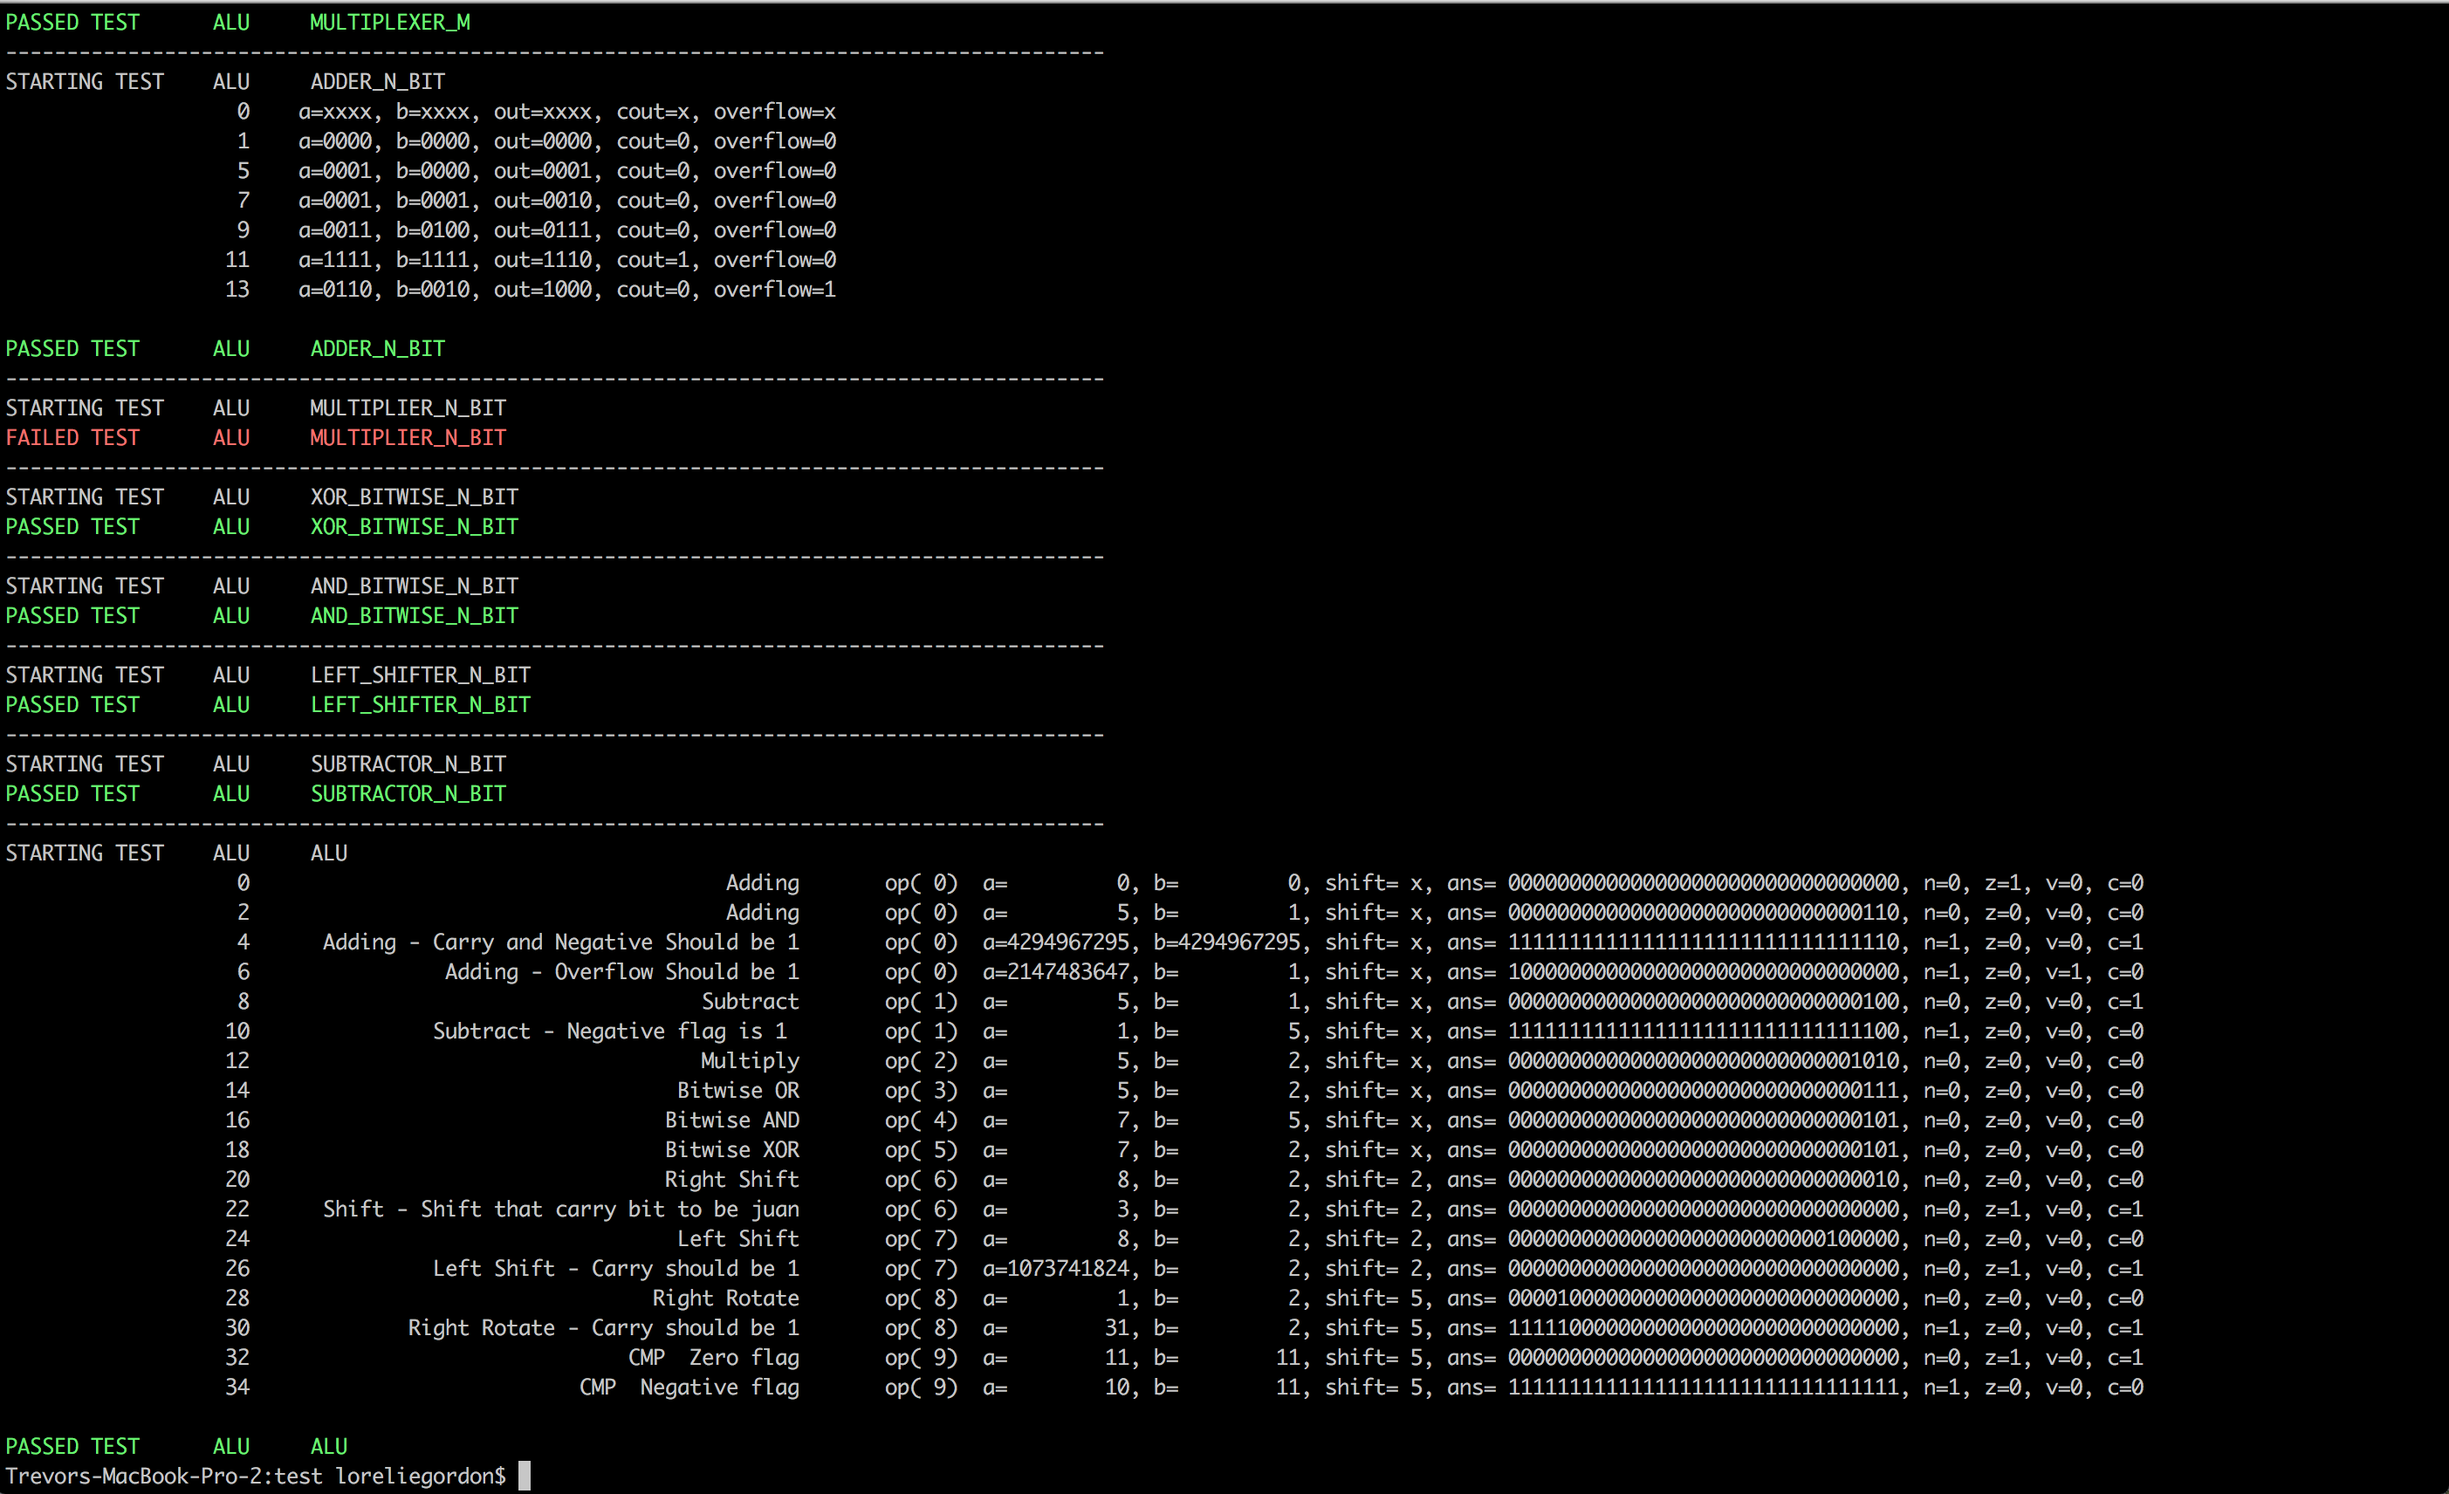
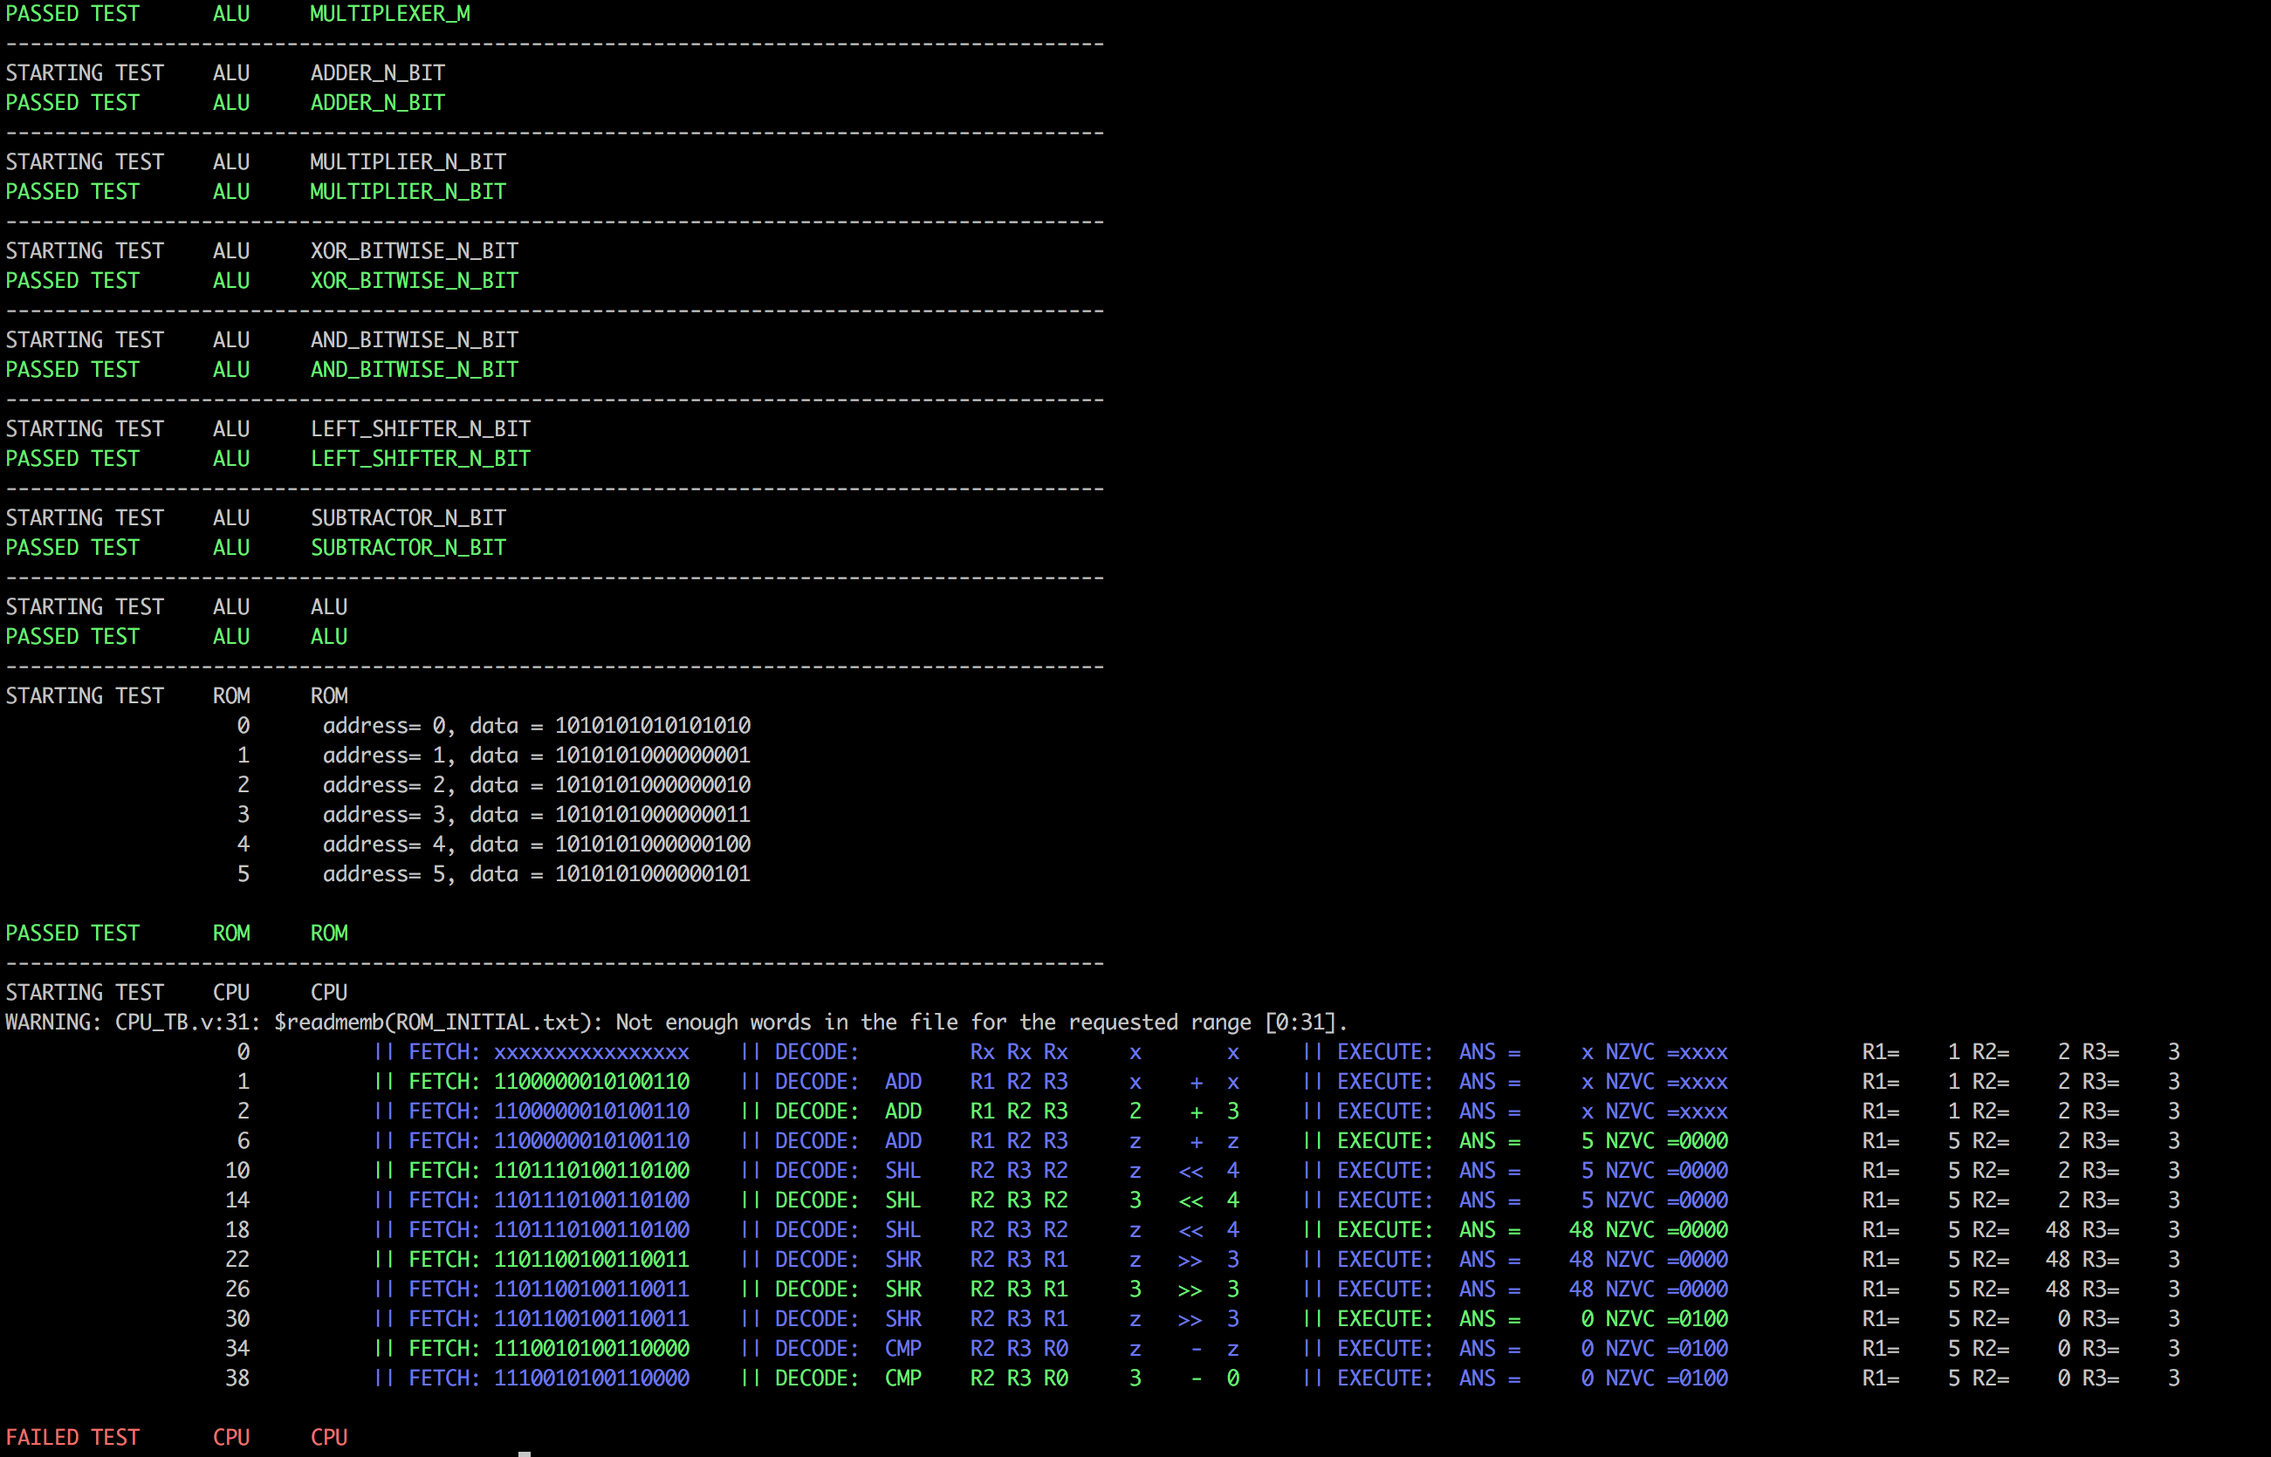
Readme updated ROM_TB reading proper size of instruct

Changed region(s): [[0.0, 0.0, 0.9339, 0.9964], [0.9962, 0.9964, 1.0, 1.0], [0.2179, 0.9964, 0.249, 1.0]]

diff --git a/test/processor_config.py b/test/processor_config.py
@@ -25,8 +25,7 @@ config = {
 		}
 	},
 	'relative_path': '/Users/loreliegordon/Documents/UBCO/UBCO Year 4/ENGR 468 Advanced Digital Systems/',
-	'show_all_output': False,
-	'modules_to_display_output': ['ALU', 'CPU'],
+	'modules_to_display_output': ['CPU', 'ROM'],
 	'modules_to_keep_sim_output': [],
 	'modules_to_keep_executable': []
 }

diff --git a/README.md b/README.md
@@ -1,16 +1,43 @@
-# Processor-Verilog
+# Processor described using Verilog
+Trevor Gordon
+4th Year Electrical Engineering Student
+The University of British Columbia
 
-This project is a simple Processor with 9 ALU operations,
+# Description
 
-Memory and decoding and timing and all that to come ...
+This project is a simple Processor with 9 ALU operations and conditional execution
+- 16 Bit Instructions
+	//    				RAW MESSAGE DECODE
+	//    15 14 13    10 9       7 6       4 3       1  0
+	//   +-----+--------+---------+---------+---------+--+
+	//   |COND |Op_code | dest_reg| src_reg1| src_reg2|  |
+	//   +-----+--------+---------+---------+---------+--+
+	//									    |    Shift   |
+	//                                      +---------+--+
 
-This project includes Python for building the project and running all tests where the output text file is compared
+- FETCH -> DECODE -> EXECUTE if condiction is satisfied
+
+- This project includes Python for building the project and running all tests where the output text file is compared
 against an expected output. 
 
-Subtest output can be conditional shown for debugging purposed by changing the config file.
+	- Subtest output can be conditionaly shown in terminal for debugging purposed by changing the config file.
 
-Simply run test.py
+	- Simply run test.py
 
-Here is a screenshot of all tests for the ALU
+Here is a screenshot of the project being built and CPU test displayed
 
 ![alt text](https://github.com/Trevor16gordon/Processor-Verilog/blob/master/Pictures/ENGR468-Trevor-Verilog-Tester.png)
+
+
+# REQUIREMENTS
+Requirements to run this after cloning
+python 2.7 
+Verilog simulator, [Icarus][iverilog]
+
+# COPYRIGHT
+
+Copyright &copy; 2017, Trevor Gordon.  All Rights Reserved.<br>
+This project is free software and released under
+the [GNU General Public License][gpl].
+
+ [gpl]: http://www.gnu.org/licenses/gpl.html
